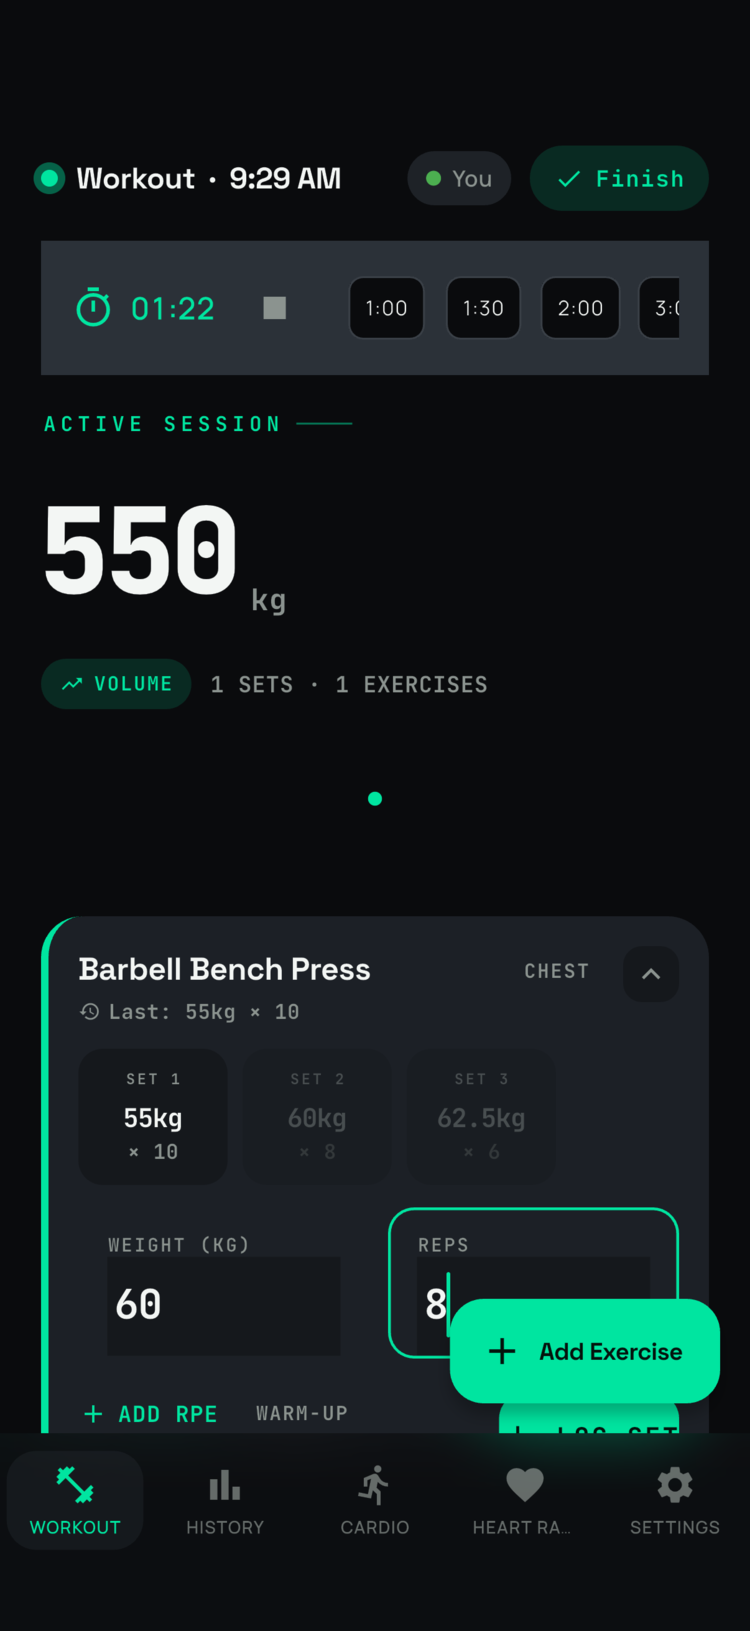
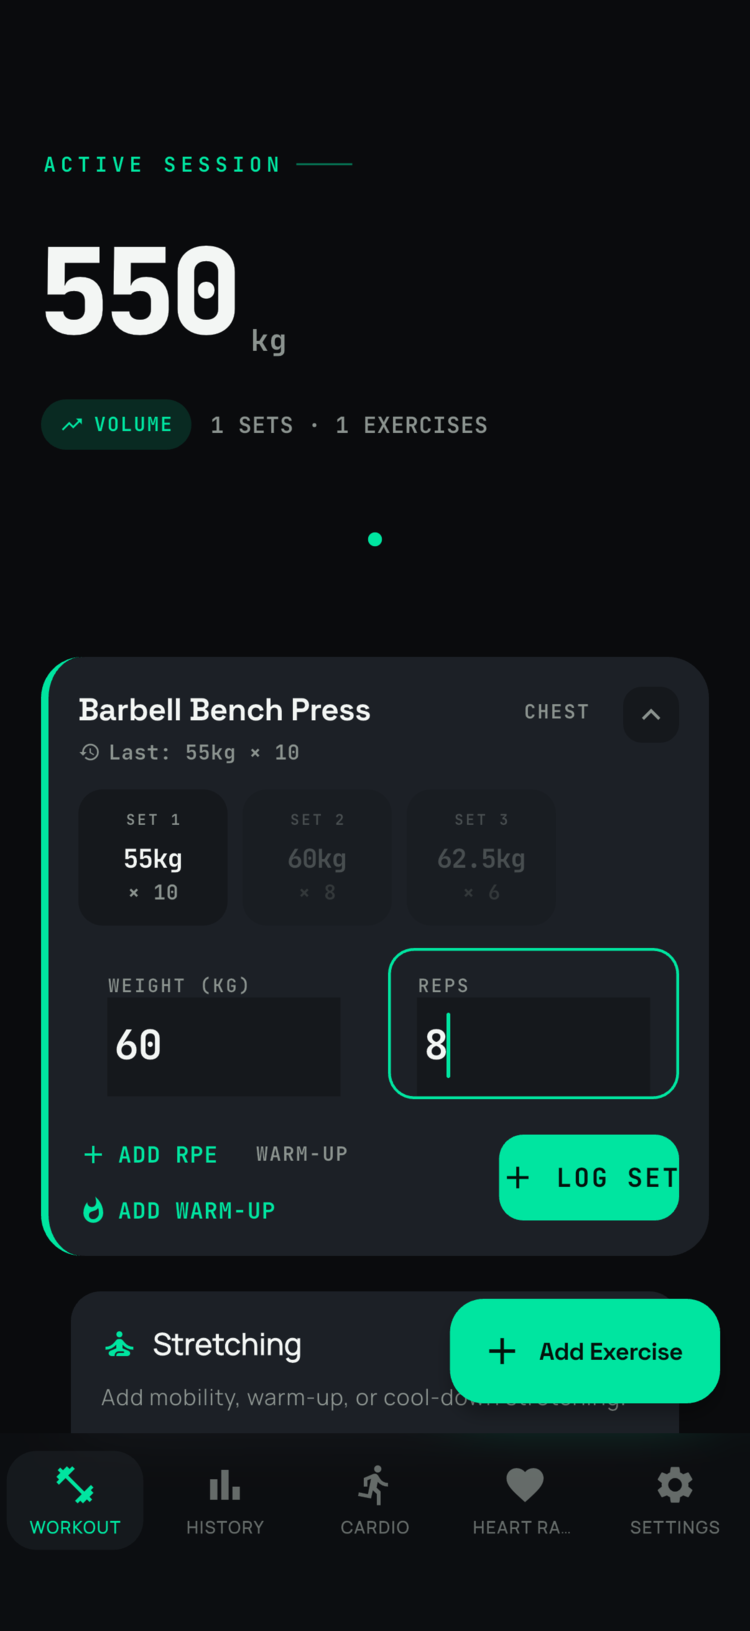
test: frame the first-workout capture clear of the Add Exercise button
The image illustrating a beginner's first logged set had the floating Add
Exercise button sitting over the LOG SET call to action, half-covering the
button the page then tells the reader to press. The app hides that FAB while
the keyboard is up for exactly this reason, and a capture has no keyboard.

Scroll the card clear of the button by the measured overlap rather than a
guessed offset, so the framing survives the layout moving, and assert the
result: a capture test photographs an obscured button just as happily as a
clear one. Removing the scroll turns the assertion red with LOG SET at 780
against a button top of 696.

Clearing the FAB leaves no room for the rest timer band above the card, and a
band sliced through the middle at the top edge reads as a rendering fault, so
push it fully out of frame. The alt text no longer claims a visible timer.

diff --git a/integration_test/helpers/test_app.dart b/integration_test/helpers/test_app.dart
@@ -1,3 +1,5 @@
+import 'dart:math' as math;
+
 import 'package:drift/native.dart';
 import 'package:flutter/material.dart';
 import 'package:flutter_riverpod/flutter_riverpod.dart';
@@ -78,6 +80,51 @@ Future<void> goTo(WidgetTester tester, String location) async {
 Future<void> settleForCapture(WidgetTester tester) async {
   await tester.pumpAndSettle();
   await tester.pump(const Duration(milliseconds: 500));
+}
+
+/// Scrolls just far enough that [subject] clears the floating action button.
+///
+/// The "Add Exercise" FAB floats over the bottom of the active workout list,
+/// so with the session scrolled to the top the set card's LOG SET call to
+/// action sits underneath it — the app only hides the FAB while the keyboard
+/// is up, and there is no keyboard in a capture. The overlap is measured
+/// rather than guessed: a hardcoded offset would quietly start cutting
+/// something else off the moment the layout moved.
+Future<void> scrollClearOfFab(WidgetTester tester, Finder subject) async {
+  final fab = find.byType(FloatingActionButton);
+  final overlap = tester.getRect(subject).bottom - tester.getRect(fab).top;
+  if (overlap <= 0) return;
+
+  final scrollable =
+      find.ancestor(of: subject, matching: find.byType(Scrollable)).first;
+  final position = tester.state<ScrollableState>(scrollable).position;
+  // A little clear air below the button, so it does not sit flush against
+  // the one it was hiding behind.
+  position.jumpTo(
+    math.min(position.pixels + overlap + 24, position.maxScrollExtent),
+  );
+  // jumpTo does not animate, and a running rest timer means the tree never
+  // settles, so one pump is both enough and all that will return.
+  await tester.pump();
+}
+
+/// Scrolls until [subject] sits entirely above the top of its scroll view.
+///
+/// Used when something tall will not fit alongside the real subject of a
+/// capture: half of it clipped against the top edge reads as a rendering
+/// fault, where none of it reads as a scrolled list.
+Future<void> scrollPastTop(WidgetTester tester, Finder subject) async {
+  final scrollable =
+      find.ancestor(of: subject, matching: find.byType(Scrollable)).first;
+  final overshoot =
+      tester.getRect(subject).bottom - tester.getRect(scrollable).top;
+  if (overshoot <= 0) return;
+
+  final position = tester.state<ScrollableState>(scrollable).position;
+  position.jumpTo(
+    math.min(position.pixels + overshoot, position.maxScrollExtent),
+  );
+  await tester.pump();
 }
 
 /// Jumps the scroll view that contains [anchor] back to its top.

diff --git a/integration_test/screenshots/training_test.dart b/integration_test/screenshots/training_test.dart
@@ -3,6 +3,7 @@ import 'package:flutter_test/flutter_test.dart';
 import 'package:integration_test/integration_test.dart';
 
 import 'package:rep_foundry/features/cardio/data/heart_rate_service.dart';
+import 'package:rep_foundry/features/workout/presentation/widgets/rest_timer_widget.dart';
 
 import '../helpers/fakes.dart';
 import '../helpers/screenshot_seed.dart';
@@ -78,6 +79,27 @@ void main() {
     // and pumpAndSettle would time out rather than return.
     await tester.pump(const Duration(seconds: 2));
     await tester.pump(const Duration(milliseconds: 500));
+
+    final logSet = find.text('LOG SET');
+    await scrollClearOfFab(tester, logSet);
+    // Once the card is clear of the FAB the rest timer band no longer fits
+    // above it, and a band sliced through the middle at the top edge reads as
+    // a rendering fault rather than a scrolled list. Push it fully out of
+    // frame; the running timer is described in the prose beside this image.
+    await scrollPastTop(tester, find.byType(RestTimerWidget));
+    await tester.pump(const Duration(milliseconds: 500));
+
+    // The whole point of this shot is a beginner's first logged set, so the
+    // button they press next cannot be half hidden behind the Add Exercise
+    // FAB. Asserted rather than eyeballed: a capture test photographs an
+    // obscured button just as happily as a clear one.
+    expect(
+      tester.getRect(logSet).bottom,
+      lessThanOrEqualTo(
+        tester.getRect(find.byType(FloatingActionButton)).top,
+      ),
+      reason: 'the Add Exercise button is covering the LOG SET call to action',
+    );
 
     await binding.takeScreenshot('first-workout');
     await testApp.database.close();
